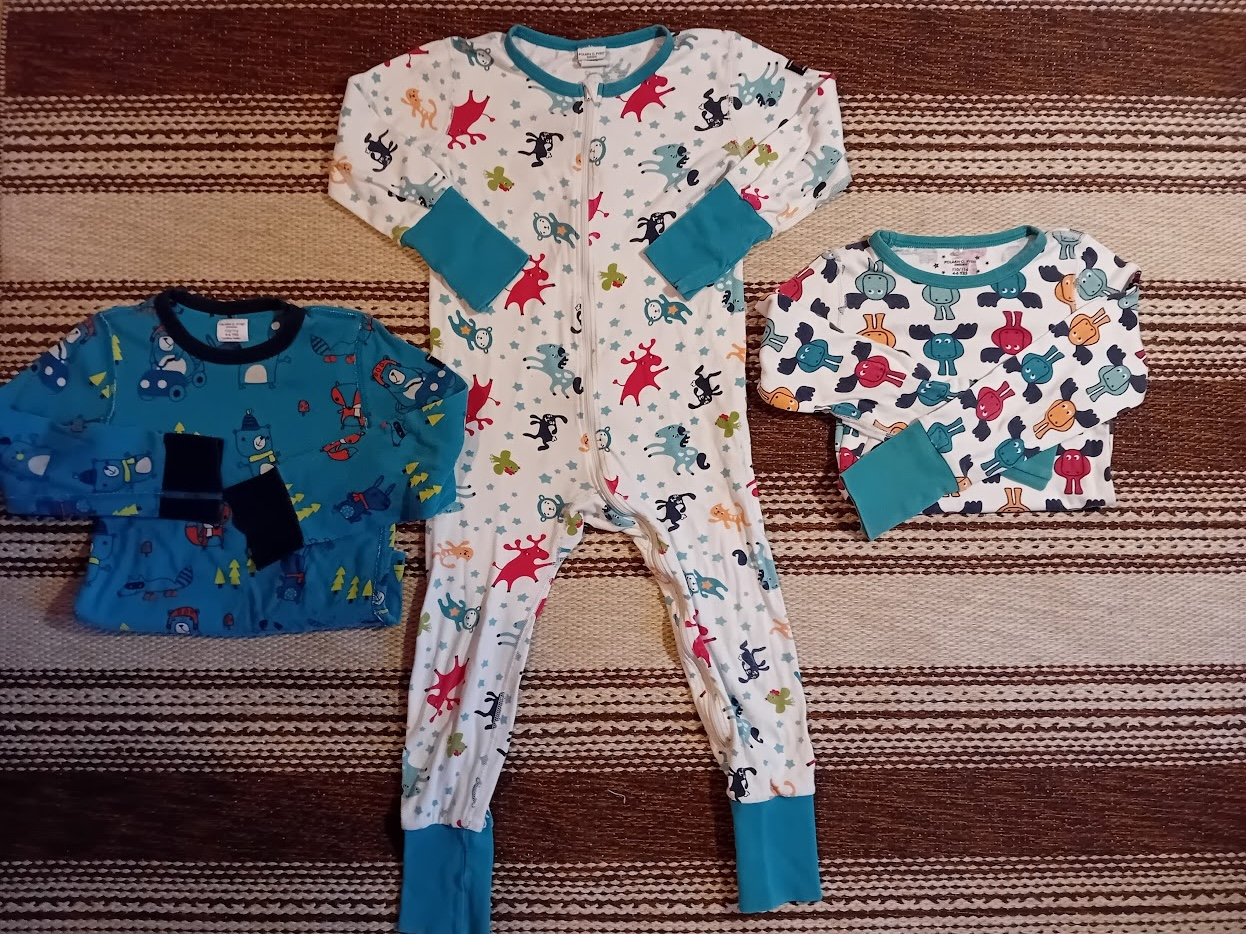
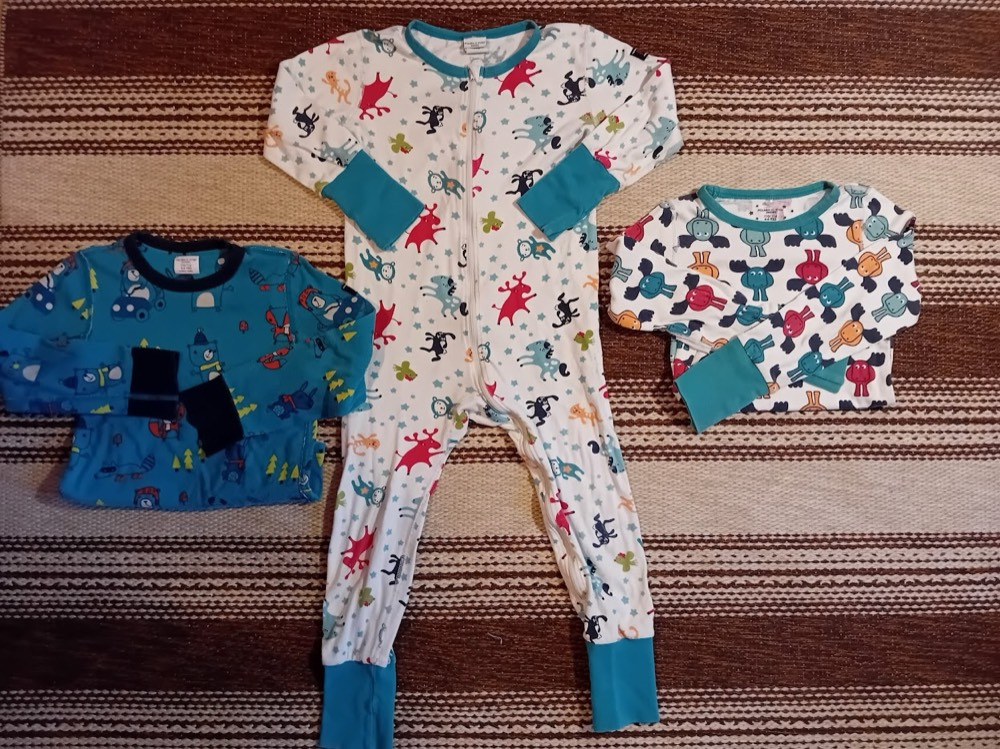
all images to .jpg

diff --git a/context/GiftContext.js b/context/GiftContext.js
@@ -1,9 +1,9 @@
 import React, { createContext, useEffect, useState, useContext } from "react";
 import AsyncStorage from "@react-native-async-storage/async-storage";
-import cykel from "../assets/images/cykel.png";
-import byro from "../assets/images/byro.png";
+import cykel from "../assets/images/cykel.jpg";
+import byro from "../assets/images/byro.jpg";
 import minions from "../assets/images/minions.jpg";
-import piano from "../assets/images/piano.png";
+import piano from "../assets/images/piano.jpg";
 
 const GiftContext = createContext();
 const GIFTS_STORAGE_KEY = "take-me-home:gifts";
